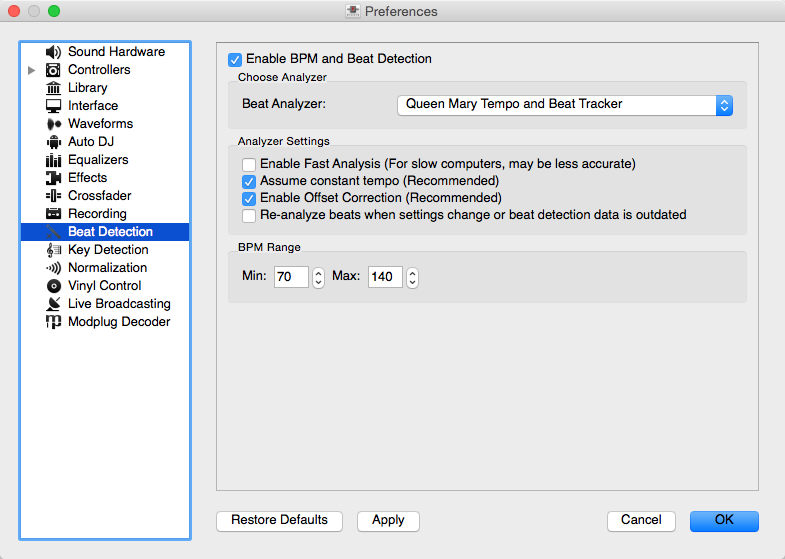
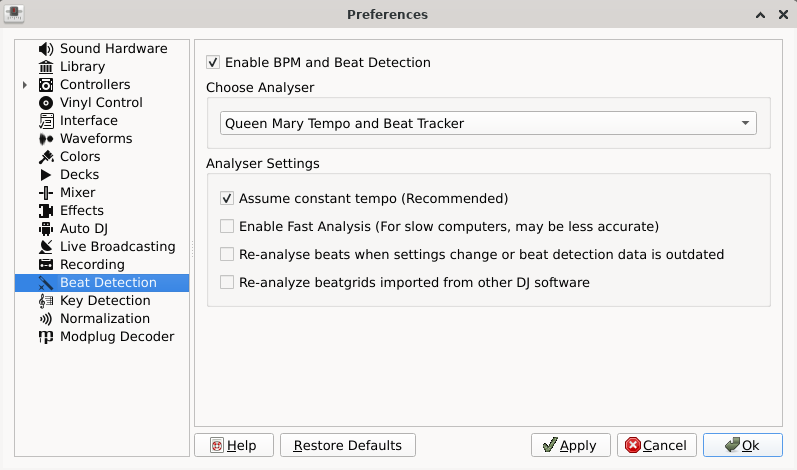
beat_detection.rst: update screenshot and table squash

Changed region(s): [[0.0, 0.0, 1.0, 0.983], [0.6726, 0.8936, 0.9783, 0.983]]

diff --git a/source/chapters/preferences/beat_detection.rst b/source/chapters/preferences/beat_detection.rst
@@ -38,26 +38,27 @@ The table below summarizes the beat detection settings:
 +---------------------------------------+--------------------------------------+
 | Option                                | Description                          |
 +=======================================+======================================+
-| Enable Fast Analysis                  | If enabled, BPM will be detected by  |
-|                                       | only using the first minute of audio.|
-+---------------------------------------+--------------------------------------+
-| Assume constant tempo                 | If enabled, Mixxx assumes that the   |
+| Assume constant tempo (Recommended)   | If enabled, Mixxx assumes that the   |
 |                                       | distances between the beats are      |
 |                                       | constant. If disabled, the raw beat  |
 |                                       | grid obtained by the analyzer is     |
 |                                       | presented. The latter is appropriate |
 |                                       | for tracks with variable tempo.      |
 +---------------------------------------+--------------------------------------+
-| Enable Offset Correction              | Prevents beat markers from being     |
-|                                       | placed incorrectly.                  |
+| Enable Fast Analysis (For slow        | If enabled, BPM will be detected by  |
+| computers, may be less accurate)      | only using the first minute of audio.|
 +---------------------------------------+--------------------------------------+
-| Re-analyze beats when settings        | If enabled, Mixxx over-writes old    |
-| change or beat detection data is      | beat grids from prior versions.      |
+| Re-analyze beats when settings        | If enabled, Mixxx overwrites old beat|
+| change or beat detection data is      | grids from prior versions.           |
 | outdated                              | Moreover, it will re-analyze the BPM |
 |                                       | if your beat detection preferences   |
 |                                       | change or BPM data from 3rd party    |
 |                                       | programs are present.                |
 +---------------------------------------+--------------------------------------+
+| Re-analyse beatgrids imported from    | If enabled, Mixxx overwrite beatgrids|
+| other DJ software                     | imported from other DJ software.     |
++---------------------------------------+--------------------------------------+
+
 
 Correcting Beat Grids
 ---------------------
